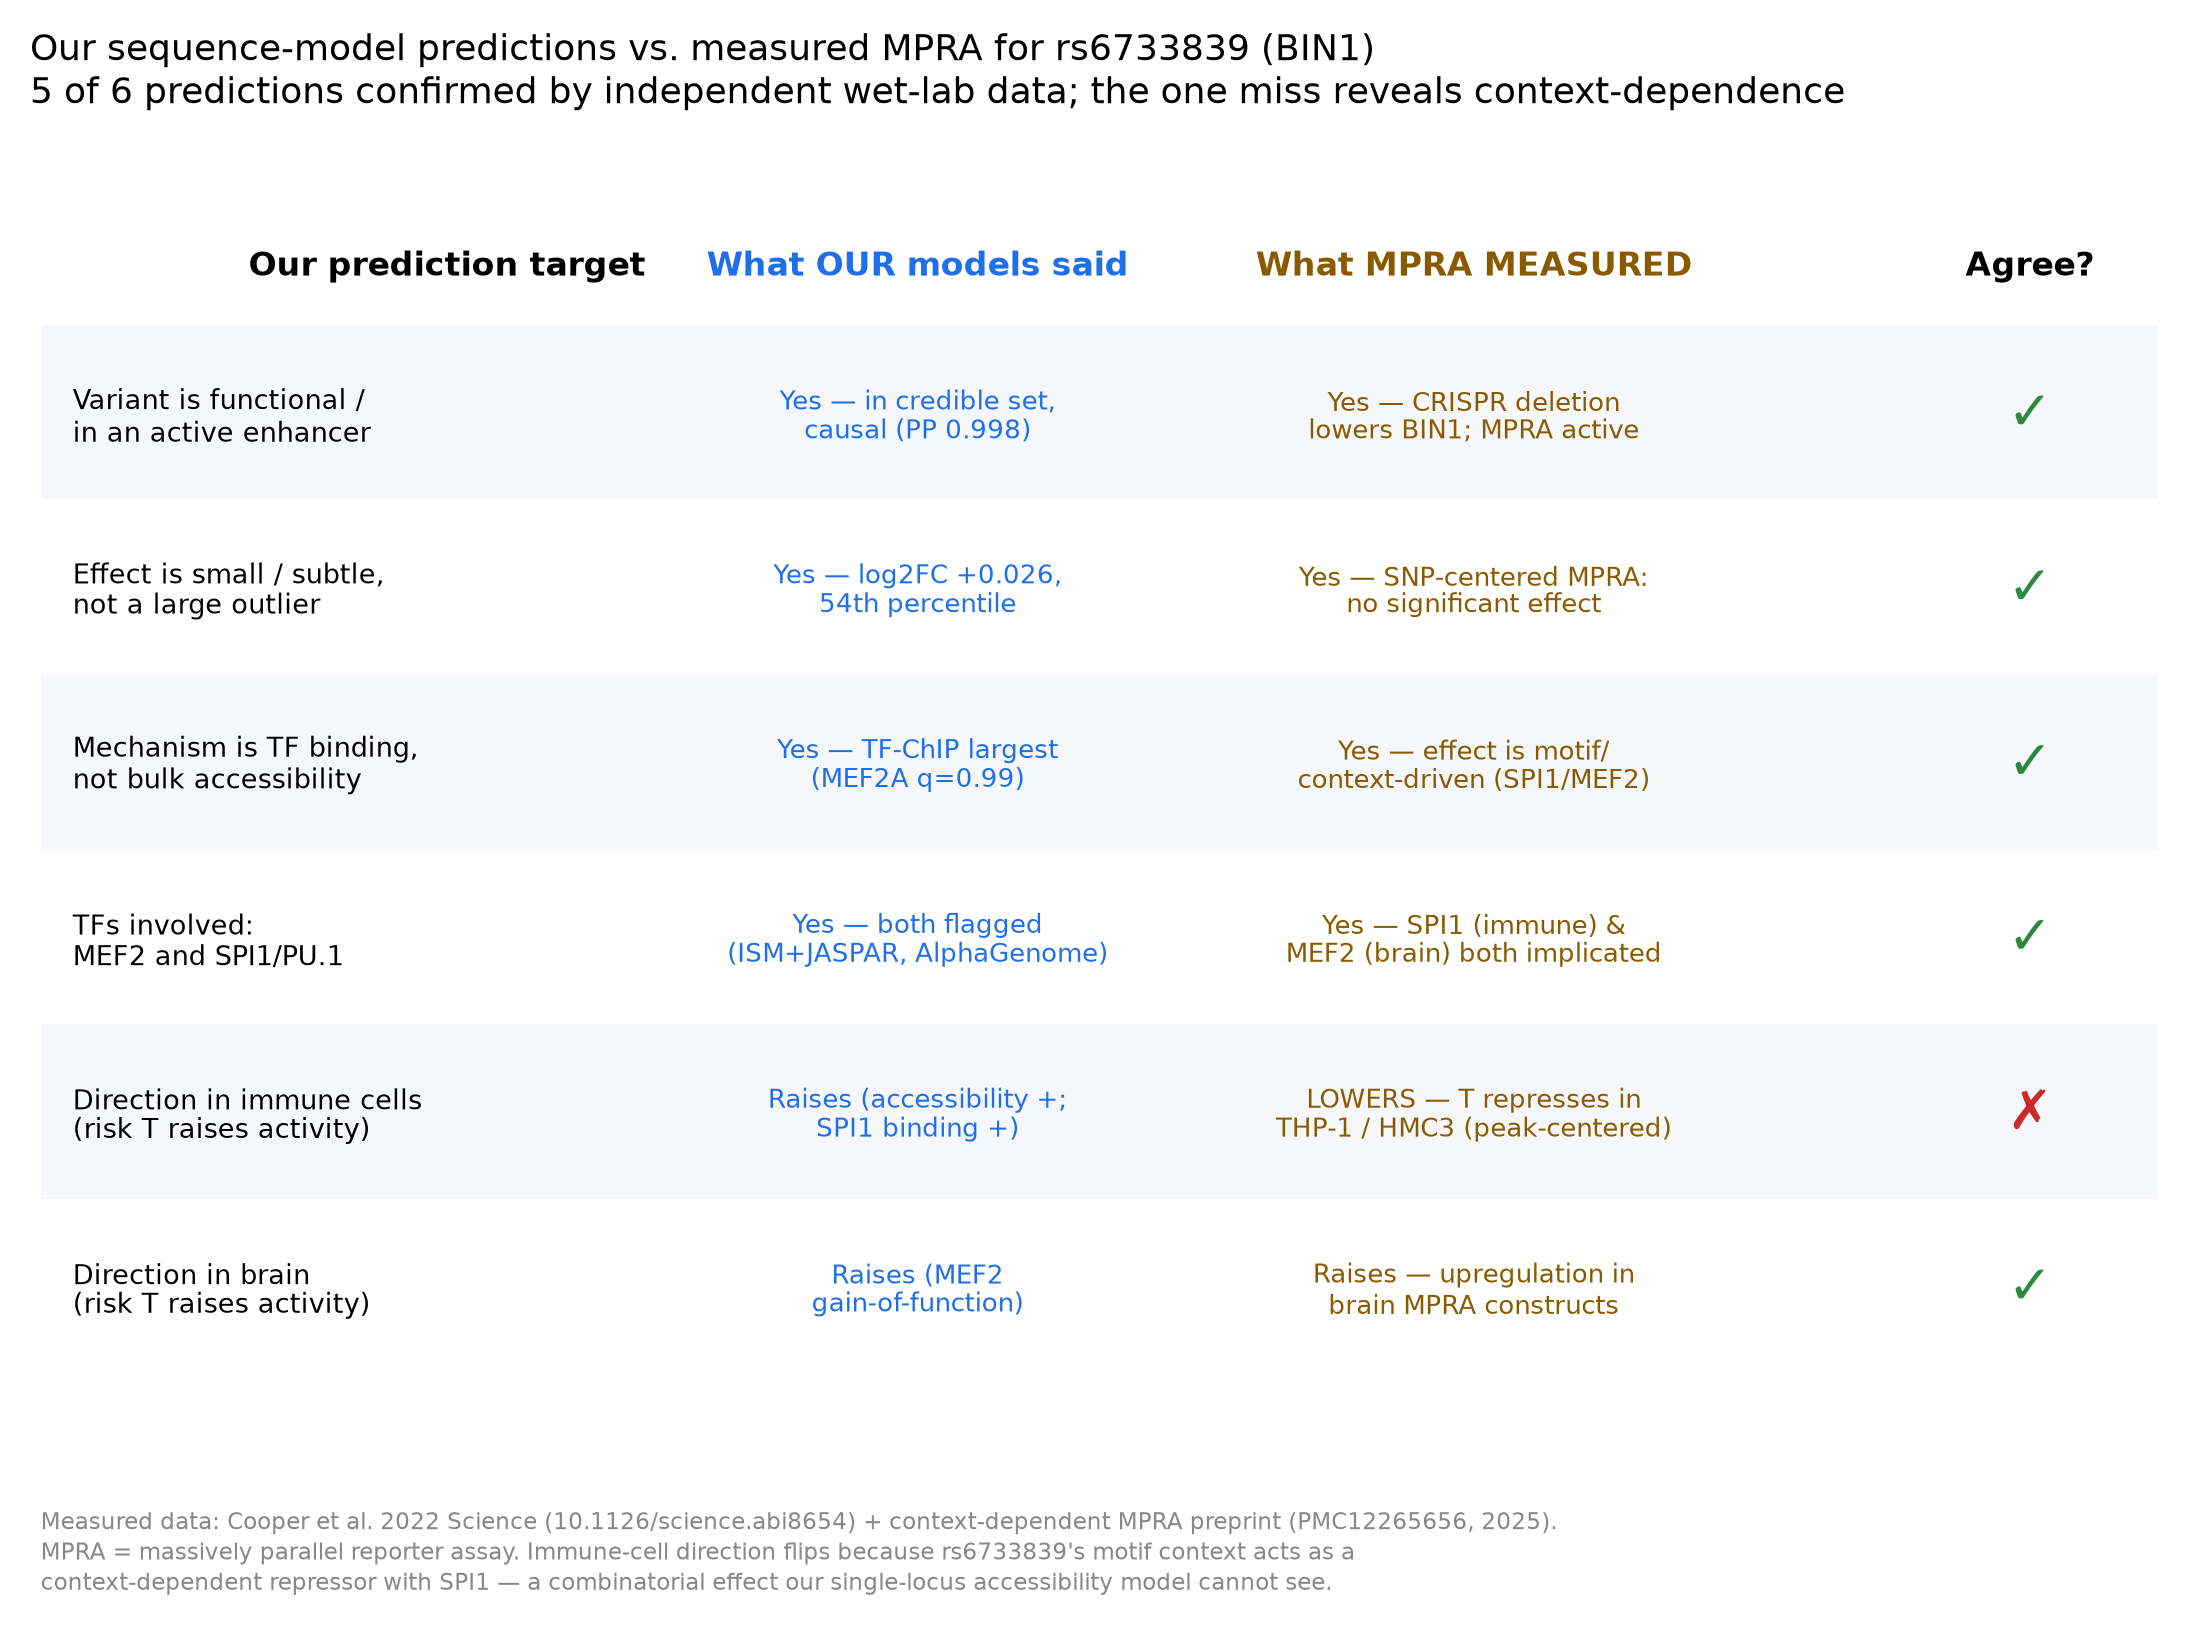
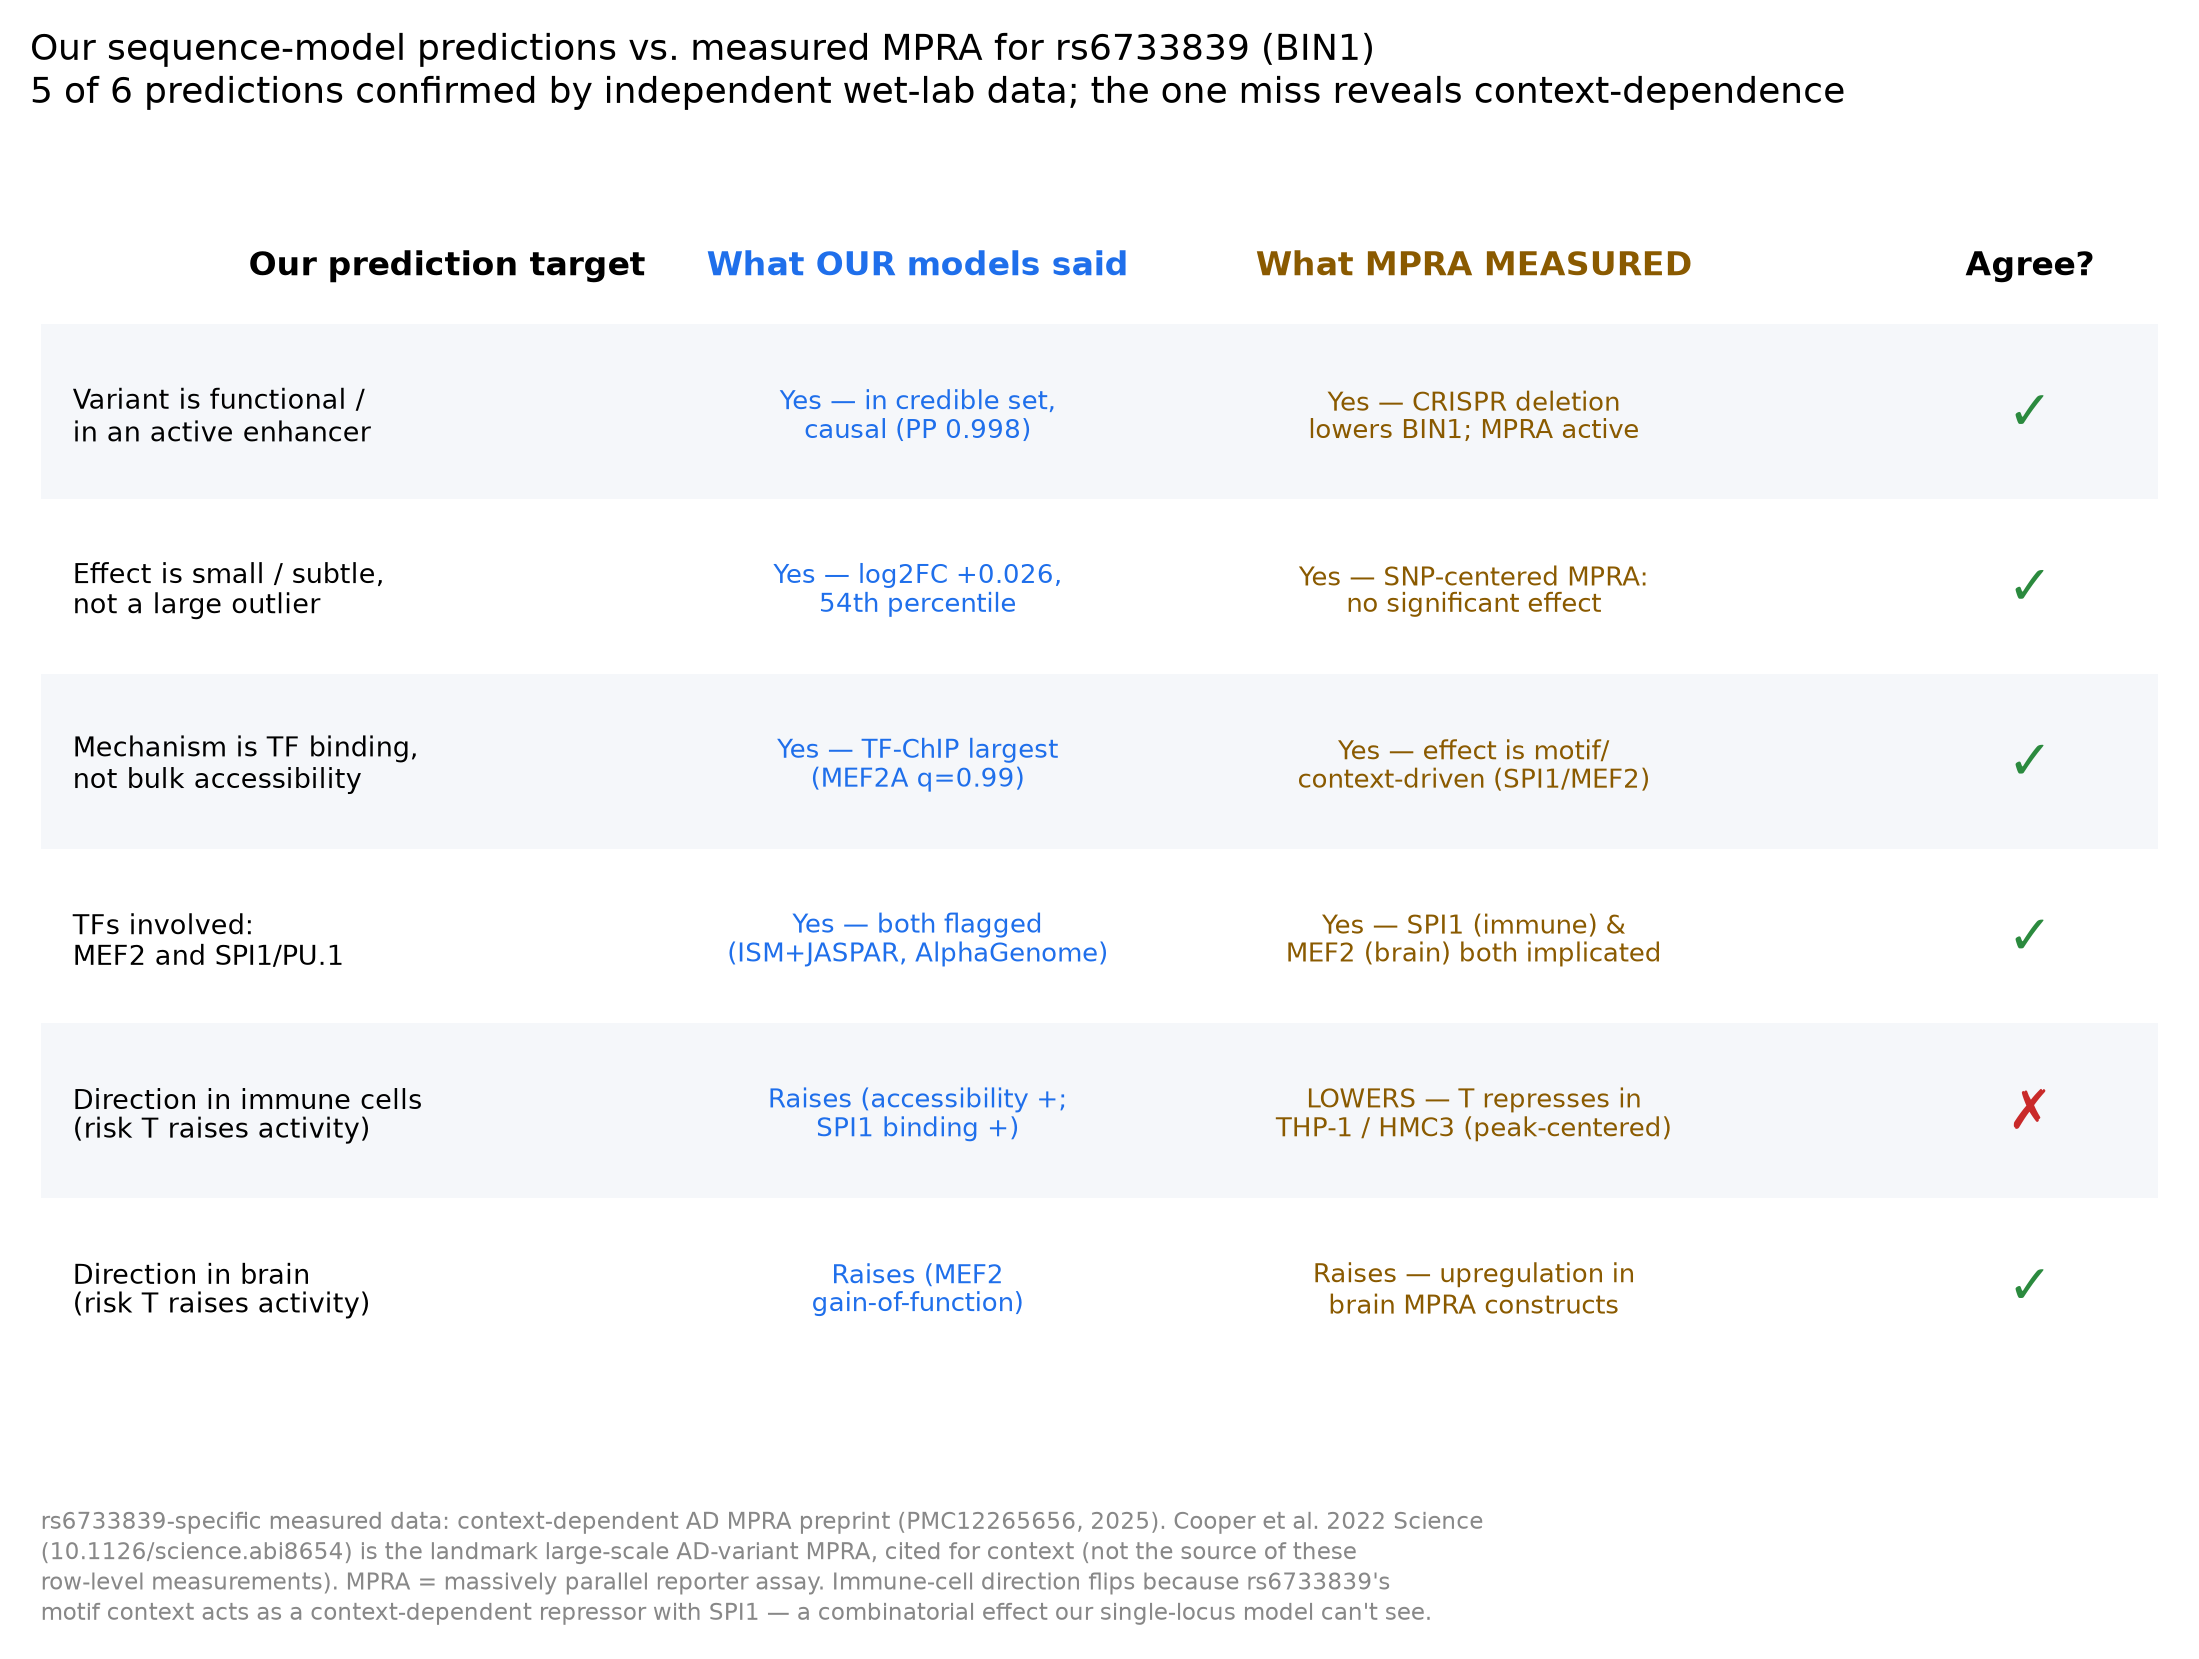
Fix citation: don't attribute rs6733839-specific MPRA null to Cooper 2022
The prior-MPRA finding (no significant allele effect, subtle upregulation)
is reported by the 2025 context-dependent preprint (PMC12265656) as a
summary of earlier unnamed MPRA work — not attributable to Cooper 2022,
whose full text we did not retrieve and whose abstract does not mention
rs6733839/BIN1. Cooper 2022 is now cited only as the landmark large-scale
AD-variant MPRA for context. Corrects MPRA_VALIDATION.md, mpra_evidence.json,
fig7 caption, README.md, ROADMAP.md.

diff --git a/results/MPRA_VALIDATION.md b/results/MPRA_VALIDATION.md
@@ -10,9 +10,10 @@ purely computationally, to the Pollard-lab-style "model + reporter assay" loop.*
 
 - **Cooper et al. 2022, *Science*** (DOI 10.1126/science.abi8654) — the landmark
   dementia MPRA: screened 5,706 AD/PSP GWAS variants for allele-specific
-  regulatory activity. Establishes that rs6733839 was tested and showed **no
-  significant allele-specific effect** in SNP-centered constructs (subtle
-  upregulation noted).
+  regulatory activity, identifying 320 functional regulatory variants across 27
+  loci. We cite it as the established large-scale AD-variant MPRA; **we did not
+  retrieve its full text, so we do not attribute any rs6733839-specific result to
+  it here** (its abstract does not mention rs6733839 or BIN1).
 - **"Context-dependent regulatory variants in Alzheimer's disease"** (preprint,
   PMC12265656 / DOI 10.1101/2025.07.11.659973, 2025) — re-examined rs6733839 with
   SNP-centered AND longer peak-centered MPRA constructs across THP-1 macrophages,
@@ -22,6 +23,14 @@ purely computationally, to the Pollard-lab-style "model + reporter assay" loop.*
 
 These are independent measurements — different groups, different assay — from the
 models we used. That independence is what makes the comparison meaningful.
+
+**Provenance note (attribution correction):** the specific prior-MPRA finding
+that rs6733839 showed *no significant allele-specific effect with subtle
+upregulation* in SNP-centered constructs is reported by the 2025 context-dependent
+preprint as a summary of *earlier* MPRA work in HEK293T/THP-1 cells; that preprint
+does not name which study. We therefore attribute this prior-null result to
+"previous MPRA assays" as reported by the 2025 preprint — **not** specifically to
+Cooper 2022.
 
 ## The scorecard: 5 of 6 predictions confirmed
 

diff --git a/ROADMAP.md b/ROADMAP.md
@@ -25,9 +25,10 @@ agree on. Statistical causality and predicted molecular mechanism are decoupled.
   clean *tool* — teaching/reproducibility value, not a new algorithm.
 - **Scientific result: MEDIUM -> upgraded toward STRONG (2026-07-08).** The
   TF-binding finding is now confirmed by *independent measured data*: published
-  MPRA + CRISPR (Cooper 2022 Science; context-dependent AD preprint) agree that
-  rs6733839 is functional, its effect is subtle, the mechanism is TF binding, and
-  the TFs are MEF2 + SPI1. 5 of 6 of our predictions matched measurement; the one
+  MPRA + CRISPR agree that rs6733839 is functional, its effect is subtle, the
+  mechanism is TF binding, and the TFs are MEF2 + SPI1. (rs6733839-specific
+  measurements from the 2025 context-dependent AD preprint; Cooper 2022 Science
+  cited as the landmark large-scale AD MPRA, full text not retrieved.) 5 of 6 of our predictions matched measurement; the one
   miss (immune-cell direction) exposed a real, citable model limit
   (context-dependent enhancer grammar). See `results/MPRA_VALIDATION.md`.
 - **As a learning project / hackathon entry: STRONG.** Complete correct workflow,

diff --git a/README.md b/README.md
@@ -82,8 +82,9 @@ The ChromBPNet result left a puzzle: rs6733839 is the fine-mapped **causal** var
 
 We went one step past prediction: we found **published MPRA data** (massively
 parallel reporter assays — real measured transcriptional activity) that tested
-rs6733839, and checked our predictions against it (Cooper et al. 2022 *Science*;
-a 2025 context-dependent AD MPRA preprint). **5 of 6 of our predictions are
+rs6733839, and checked our predictions against it. The rs6733839-specific measurements come from a 2025 context-dependent AD MPRA preprint (which also reports that
+*earlier* MPRA work saw no significant allele effect); Cooper et al. 2022 *Science* is cited as
+the landmark large-scale AD-variant MPRA for context. **5 of 6 of our predictions are
 confirmed by independent measurement** — the variant is functional, its effect is
 subtle (SNP-centered MPRA sees no significant effect, matching our "54th
 percentile"), the mechanism is TF binding, and the TFs are MEF2 + SPI1. The one